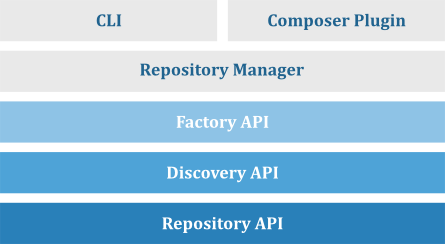
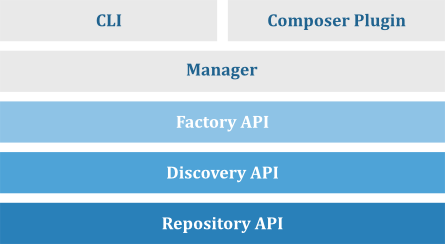
Updated components page

Changed region(s): [[0.2921, 0.2582, 0.7011, 0.3443]]

diff --git a/components.rst b/components.rst
@@ -53,12 +53,12 @@ interface that you can use to create :class:`Puli\\Repository\\Api\\ResourceRepo
 and :class:`Puli\\Discovery\\Api\\ResourceDiscovery` instances.
 
 You can either create implementations of this interface yourself or use the one
-generated by `the Repository Manager`_.
+generated by `the Manager component`_.
 
-The Repository Manager
-----------------------
+The Manager Component
+---------------------
 
-The `Puli Repository Manager`_ manages
+The `Puli Manager`_ component manages
 :class:`Puli\\Repository\\Api\\ResourceRepository` and
 :class:`Puli\\Discovery\\Api\\ResourceDiscovery` instances. You can use the
 managers provided by the component to change the contents of the repository and
@@ -66,29 +66,31 @@ the discovery:
 
 .. code-block:: php
 
-    use Puli\RepositoryManager\ManagerFactory;
-    use Puli\RepositoryManager\Repository\ResourceMapping;
+    use Puli\Manager\ManagerFactory;
+    use Puli\Manager\Repository\ResourceMapping;
 
-    $managerFactory = new ManagerFactory();
-    $environment = $managerFactory->createProjectEnvironment(getcwd());
-    $repoManager = $managerFactory->createRepositoryManager($environment);
+    // Start the service container
+    $puli = new Puli(getcwd());
+    $puli->start();
 
-    $repoManager->addResourceMapping(new ResourceMapping('/app', 'res'));
+    $manager = $puli->getRepositoryManager();
 
-The Repository Manager component stores all configuration in a puli.json file in
+    $manager->addResourceMapping(new ResourceMapping('/app', 'res'));
+
+The Manager component stores all configuration in a ``puli.json`` file in
 the root directory of the project. This configuration can be used to rebuild the
 repository and the discovery at any time:
 
 .. code-block:: php
 
-    $repoManager->clearRepository();
-    $repoManager->buildRepository();
+    $manager->clearRepository();
+    $manager->buildRepository();
 
 The Composer Plugin
 -------------------
 
 The `Composer Plugin`_ for Puli integrates Composer into the Repository Manager.
-With this plugin, the puli.json files of all installed Composer packages are
+With this plugin, the ``puli.json`` files of all installed Composer packages are
 loaded automatically. For example, if the Composer package "acme/blog" maps
 the Puli path ``/acme/blog`` to its ``res`` directory, you can access these
 resources like this:
@@ -135,6 +137,6 @@ You can instantiate the repository modified by the CLI through the
 .. _Puli Repository: https://github.com/puli/repository
 .. _Puli Discovery: https://github.com/puli/discovery
 .. _Puli Factory: https://github.com/puli/factory
-.. _Puli Repository Manager: https://github.com/puli/repository-manager
+.. _Puli Manager: https://github.com/puli/manager
 .. _Puli CLI: https://github.com/puli/cli
 .. _Composer Plugin: https://github.com/puli/composer-plugin
